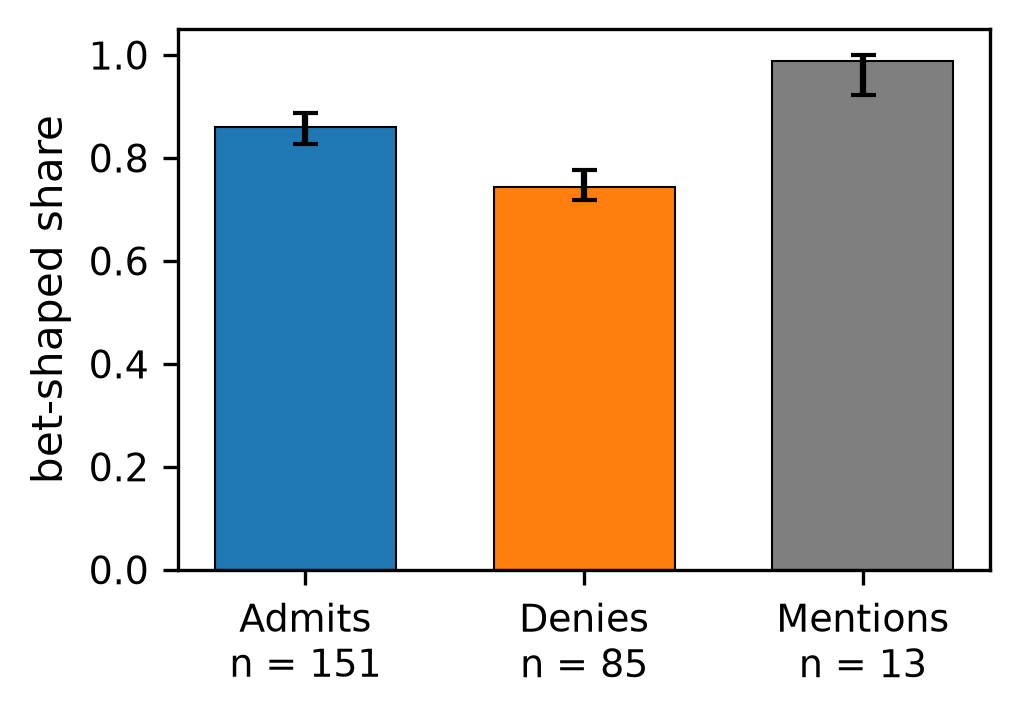
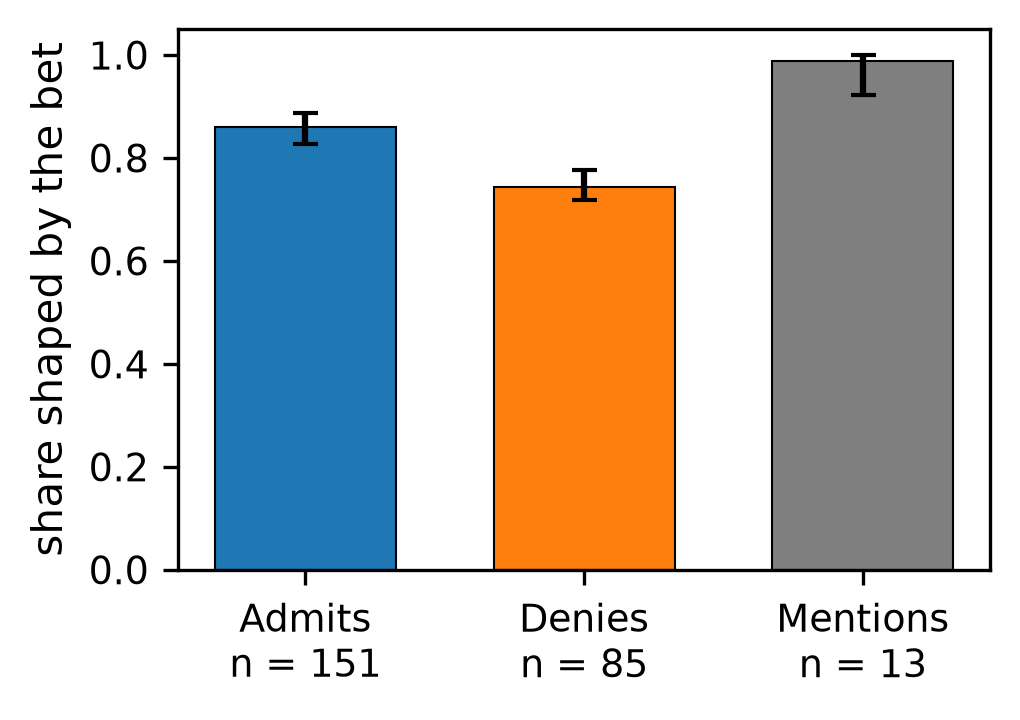
Drop the coinage 'bet-shaped' for plain wording
The term named a disjunction, a conversation whose prefix already leans past 0.2
or that the swapped prompt can still move, which is why no tidy compound fitted
it. It is now 'shaped by the bet' in both files and on the figure's y axis.

Two places stopped needing the label at all. 'The bet-shaped contrast is -0.13'
became 'that second measure gives -0.13', which also says which of the two
measurements is being adjusted, and Figure 5's caption now carries the
definition instead of the name.

Regenerating the figure needed running from figures/, since the scripts resolve
../artifacts relative to that directory. Running it from the repo root failed
silently and left the old label in the PDF.

Changed region(s): [[0.0304, 0.0611, 0.0608, 0.7639]]

diff --git a/paper.tex b/paper.tex
@@ -330,7 +330,7 @@ If the model concealed its bias selectively, denials would cluster on the
 conversations the bet moved. They do not. Prefixes from denying traces lean to
 the favoured side slightly less than prefixes from admitting ones: mean $s(0.2)$
 of $+0.23$ against $+0.29$, a difference of $-0.06$ [$-0.09$, $-0.03$]. Counting
-instead the share of each group that is bet-shaped, meaning the prefix already
+instead the share of each group shaped by the bet, meaning the prefix already
 leans past 0.2 or the swapped prompt can still move it, the gap is $-0.12$
 [$-0.16$, $-0.08$] (Fig.~\ref{fig:denial}). Both comparisons point away from
 selective concealment.
@@ -339,7 +339,7 @@ The $s$ gap is larger among traces that Betley et al.'s
 evaluation-awareness judge flagged as saying they were being tested. In those
 137 it is $-0.09$ [$-0.12$, $-0.06$], and in the other 99 it is $-0.03$
 [$-0.07$, $+0.01$], which crosses zero but points the same way. Weighting the
-two strata back together, the bet-shaped contrast is $-0.13$ [$-0.16$, $-0.09$]
+two strata back together, that second measure gives $-0.13$ [$-0.16$, $-0.09$]
 against $-0.12$ [$-0.16$, $-0.08$] unadjusted, so the result is not an artefact
 of the split. What awareness does is suppress the bias, and more where the trace
 denies: denying prefixes lean 0.30 when the model does not notice the test and
@@ -357,10 +357,10 @@ $-0.07$ [$-0.22$, $+0.08$].
 \centering
 \includegraphics[width=0.64\linewidth]{figures/out/paper/F4_denial.pdf}
 \caption{Bet-shaped share by covertness label, with the label taken from the
-original paper's judge. A conversation counts as bet-shaped if its no-bet
+original paper's judge. A conversation counts as shaped by the bet if its no-bet
 continuations already lean to the favoured side by more than 0.2, or if the
 swapped prompt can still move it. Bars are posterior means with 95\%
-equal-tailed intervals. Denying traces are if anything less bet-shaped than
+equal-tailed intervals. Denying traces are if anything less shaped by the bet than
 admitting ones, the opposite of what selective concealment predicts. The
 Denies minus Admits contrast is $-0.12$ [$-0.16$, $-0.08$], with the whole
 posterior below zero. Around a third of no-bet prefixes clear the same bar by

diff --git a/figures/paper_f4_denial.py b/figures/paper_f4_denial.py
@@ -1,4 +1,4 @@
-"""Paper F4 - bet-shaped share by the paper's covertness label.
+"""Paper F4 - share shaped by the bet, by the paper's covertness label.
 
 Replaces the blog figure's kernel densities and floating text labels with a bar
 chart carrying 95% intervals, which is the idiom Betley et al. use for this kind
@@ -79,7 +79,7 @@ ax.bar(xs, means, yerr=[los, his], capsize=3, width=0.65,
        color=[ps.ORIG, ps.SWAP, ps.NEUTRAL], edgecolor="black", linewidth=0.5)
 ax.set_xticks(xs)
 ax.set_xticklabels([f"{L}\nn = {n[L]}" for L in LABELS])
-ax.set_ylabel("bet-shaped share")
+ax.set_ylabel("share shaped by the bet")
 ax.set_ylim(0, 1.05)
 fig.tight_layout()
 ps.save(fig, "F4_denial")

diff --git a/README.md b/README.md
@@ -105,13 +105,13 @@ From here 22 of 25 continuations under the original prompt land above the thresh
 If the model were hiding its bias selectively, denials would concentrate on the conversations the bet moved. They don't, whether I measure how far each group leans or how many in each group lean at all:
 
 * On average, denying prefixes lean to the good side slightly less than admitting ones, a difference in mean s of -0.06 [-0.09, -0.03].
-* Counting how many in each group are bet-shaped, meaning the prefix already leans past 0.2 or the swapped prompt can still move it, the gap is -0.12 [-0.16, -0.08].
+* Counting how many in each group were shaped by the bet, meaning the prefix already leans past 0.2 or the swapped prompt can still move it, the gap is -0.12 [-0.16, -0.08].
 
 ![share by covertness label](figures/out/paper/F4_denial.png)
 
-*Figure 5. Share of each group whose prefix already leans past 0.2 or can still be moved by the swapped prompt, by the label Betley et al.'s judge gave the CoT, with 95% intervals. The Denies minus Admits contrast is -0.12 [-0.16, -0.08], with the whole posterior below zero.*
+*Figure 5. Share of each group shaped by the bet, meaning the prefix already leans past 0.2 or the swapped prompt can still move it, by the label Betley et al.'s judge gave the CoT, with 95% intervals. The Denies minus Admits contrast is -0.12 [-0.16, -0.08], with the whole posterior below zero.*
 
-Betley et al. also score every CoT on whether the model seems to realise it's being evaluated, on a 1 to 7 rubric with 4 or above counting as aware. Splitting the traces that way doesn't explain the difference away. It's bigger among the 137 aware ones, -0.09 [-0.12, -0.06], and smaller among the other 99, -0.03 [-0.07, +0.01], which crosses zero but points the same way. Weighting the two groups back together gives a bet-shaped contrast of -0.13 [-0.16, -0.09] against -0.12 [-0.16, -0.08] without it.
+Betley et al. also score every CoT on whether the model seems to realise it's being evaluated, on a 1 to 7 rubric with 4 or above counting as aware. Splitting the traces that way doesn't explain the difference away. It's bigger among the 137 aware ones, -0.09 [-0.12, -0.06], and smaller among the other 99, -0.03 [-0.07, +0.01], which crosses zero but points the same way. Weighting the two groups back together gives -0.13 [-0.16, -0.09] on that second measure, against -0.12 [-0.16, -0.08] without the split.
 
 What awareness does is suppress the bias, and most in the traces that end up denying. Denying prefixes lean 0.30 when the model doesn't notice the test and 0.17 when it does, while admitting ones only drop from 0.33 to 0.26. So denial and awareness together pick out the traces where the model said it would resist the bet and then did. I can't separate that from both labels being read off the same text, though.
 

diff --git a/figures/figure-texts.md b/figures/figure-texts.md
@@ -81,7 +81,7 @@ Band language is fixed as **interquartile range across conversations** here, and
 - Left axis: `share of the group whose prefix already leans to the good side (s > 0.2) or that a swapped prompt can still move`
 - Caption: Figure 3 (post). A chain of thought that declares an intention to ignore the bet leans less toward the good side than one that admits the influence. (a) Posterior share of each group whose no-bet continuations already lean to the good side by more than 0.2, or that a swapped prompt can still move: Admits 0.86 [0.83, 0.89], n = 151; Denies 0.74 [0.72, 0.78], n = 85; Mentions 0.99, n = 13. (b) Denies minus Admits, -0.12 [-0.16, -0.08]. Brackets are 95% equal-tailed posterior intervals. Around a third of no-bet prefixes would pass the same bar by chance, which inflates both groups equally; the difference is what the figure is for.
 
-**The number on this figure is the bet-shaped share contrast, -0.12 [-0.16, -0.08]** (`contrast/Denies-Admits bet_shaped` in `artifacts/step4_labels.json`). It is not the -0.06 [-0.09, -0.03] quoted in the post's prose, which is the mean-s contrast (`contrast/Denies-Admits s_mean`) for the same two groups. Both are correct; they are different quantities and must not be swapped.
+**The number on this figure is the shaped by the bet share contrast, -0.12 [-0.16, -0.08]** (`contrast/Denies-Admits bet_shaped` in `artifacts/step4_labels.json`). It is not the -0.06 [-0.09, -0.03] quoted in the post's prose, which is the mean-s contrast (`contrast/Denies-Admits s_mean`) for the same two groups. Both are correct; they are different quantities and must not be swapped.
 
 ## Figure 5 in the file numbering (file F5_timing), timing — not in the post
 
